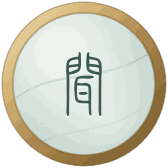
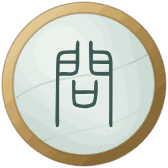
feat: 问答浮标换成校方给的篆体「问」，并补上烤图护栏
字形：校方提供的小篆「問」。外来字形不能直接用，加了
scripts/normalize-seal-glyph.mjs 归一，它做三件事——

  · 洗水印。这张字库导出稿右下角有两条 #fcfbfa 的白字，
    白底上看不见，扣到青玉牌面上会显出来。
  · 去掉烤死的颜色。导出稿把 fill="#010103" 写在 <g> 上，
    而玉牌是拿 <g fill="#FFFFFF">（下沿高光）和 <g fill="#3E5A55">
    （实字）套在字身外面上色的，字身自带 fill 会把两层全盖掉，
    阴刻直接变成一枚黑疙瘩。
  · 统一到 1000 的框、墨迹居中、最长边 760。
    jade_medallion() 没有 SVG 引擎，量不了墨迹，只能按 viewBox 算缩放；
    不归一的话同一个 gsz 换个字就会差一大截。归一之后目录里的
    闻.svg 和新的 问.svg 变换系数几乎一致（2.1713 / 2.1726），
    两枚本来就出自同一套字。

字号：gsz 0.50 → 0.68。渲染出来的字最长边 = 0.76 × gsz × size，
玉面直径 = 0.845 × size，所以是占玉面 45% → 61%。
0.50 在 112rpx（56px）的浮标上笔画快连不成字；试到 0.72 时
上下已经顶到玉面内沿，取 0.68。

_seal_glyph_path() 加了断言：字身里出现 fill 就报，
把"忘了归一"挡在生成之前而不是留到页面上。

另外补一条之前漏掉的护栏 check:baked-icons。
上一轮我给入口图和浮标各落了一份指纹（scripts/*.hash），
但**没有任何东西去读它们**——和当初 check:font-subset 只验产物、
不验 app.wxss 有没有 @import 是同一类错：产物对、护栏绿、
改了令牌图不跟着变，没人会发现。这条护栏把指纹按
"现取的令牌 + 现读的设计源"重算一遍，并且额外验页面是否真的引到了图。

变异测试 13 项全部拦下：改令牌、改器物画法、改字号、换字、
字形带 fill、字形没归一、字形被删、homeNav 不再引图、
首页不再渲 iconImage、组件不再引玉牌、图被删、图绕过量化、指纹被删。

preflight:local 全绿。

Claude-Session: https://claude.ai/code/session_01JpdC71poBgzCMJ9jsM6B8r

Changed region(s): [[0.3274, 0.2381, 0.6845, 0.7738]]

diff --git a/design/demo/v2/_ornaments.py b/design/demo/v2/_ornaments.py
@@ -2302,15 +2302,27 @@ def _seal_glyph_path(ch):
     vb = m.group(1) if m else "0 0 1000 1000"
     body = re.sub(r"^.*?<svg[^>]*>", "", s, flags=re.S)
     body = re.sub(r"</svg>\s*$", "", body, flags=re.S)
-    return body.strip(), vb
+    body = body.strip()
+    # 字身里不许有 fill。玉牌是拿 <g fill="#FFFFFF">（下沿高光）和
+    # <g fill="#3E5A55">（实字）套在外面上色的，字身自带 fill 会把两层全盖掉，
+    # 阴刻就变成一枚黑墨疙瘩。字库导出的 SVG 默认就带 fill，
+    # 所以这里必须拦——用 scripts/normalize-seal-glyph.mjs 洗过再放进来。
+    assert 'fill=' not in body, (
+        "篆书字形 %s.svg 的字身里有写死的 fill，玉牌上不了色；"
+        "先跑 node scripts/normalize-seal-glyph.mjs 归一" % ch)
+    return body, vb
 
 
-def jade_medallion(ch="\u95fb", size=200):
+def jade_medallion(ch="\u95ee", size=200):
     """金镶玉圆牌，当中阴刻一个小篆字。"""
     body, vb = _seal_glyph_path(ch)
     vx, vy, vw, vh = [float(t) for t in vb.replace(",", " ").split()]
     R = size / 2.0
-    gsz = size * 0.50                       # 字的占地
+    # 字的占地。字形文件按 scripts/normalize-seal-glyph.mjs 的约定归一过：
+    # 1000 的框、墨迹居中、最长边 760。所以字**渲染出来**的最长边是
+    # 0.76 * gsz * size，玉面直径是 0.845 * size —— gsz 0.68 时字占玉面 61%。
+    # 原来是 0.50（占 45%），在 112rpx 的浮标上太秀气，56px 下笔画快连不成字。
+    gsz = size * 0.68
     k = gsz / max(vw, vh)
     gx = R - (vx + vw / 2.0) * k
     gy = R - (vy + vh / 2.0) * k
